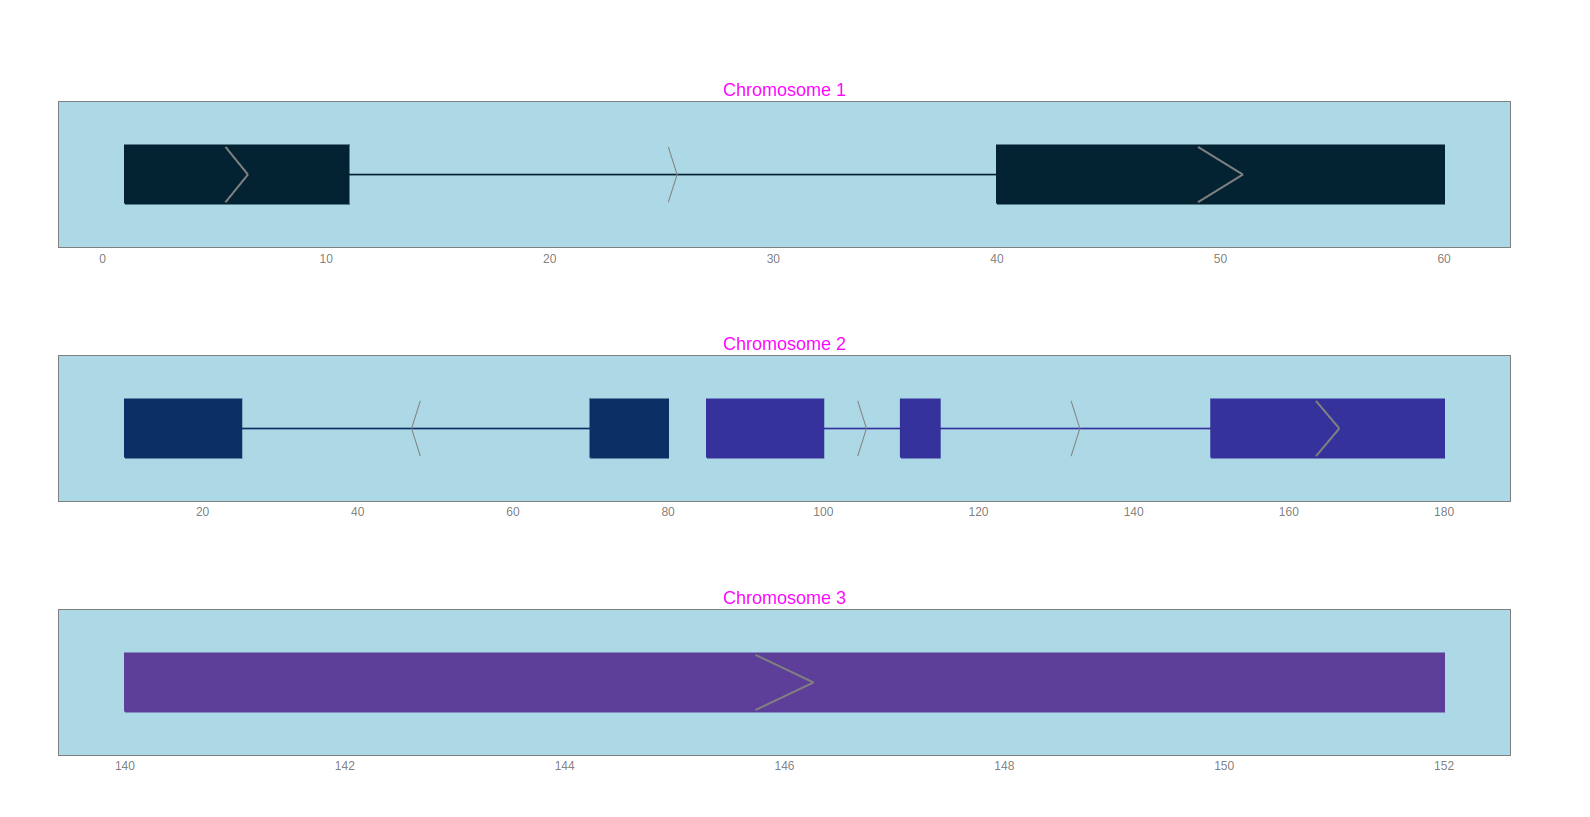
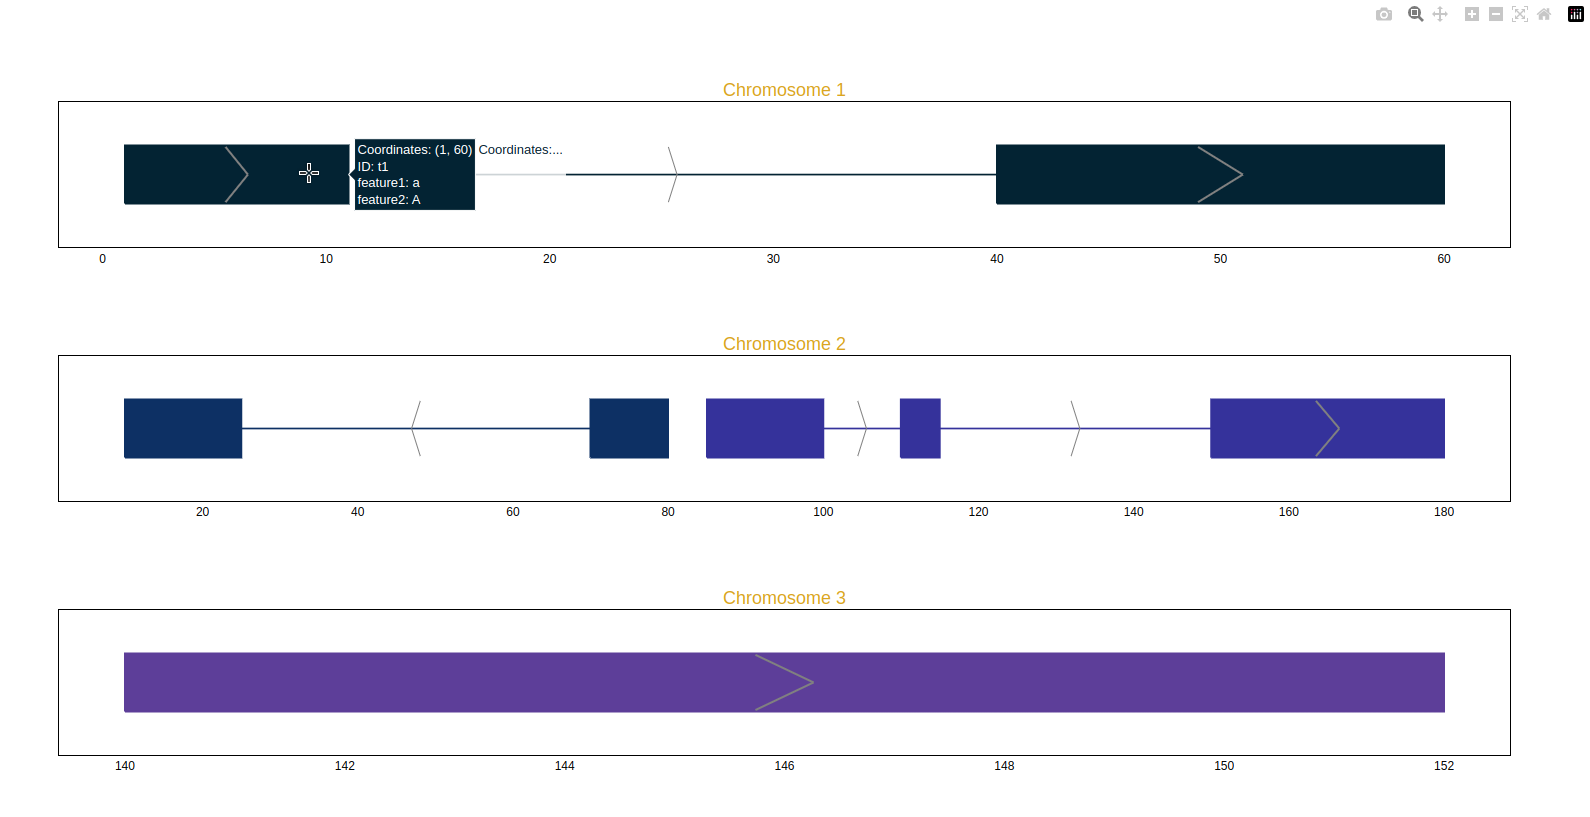
Updated README.

diff --git a/README.md b/README.md
@@ -43,20 +43,20 @@ pip install pyranges-plot
 
 
 ## Examples
-Next we will test pyranges_plot visualization options, using a PyRanges object generated 
-from a dictionary.
+Next we will test pyranges\_plot visualization options using the ``plot_generic`` function. 
+For that we will be using a PyRanges object generated from a dictionary.
 
 ```python
 import pyranges as pr
 import pyranges_plot as prplot
 
 p = pr.from_dict({"Chromosome": [1, 1, 2, 2, 2, 2, 2, 3],
-             	"Strand": ["+", "+", "-", "-", "+", "+", "+", "+"],
-             	"Start": [1, 40, 10, 70, 85, 110, 150, 140],
-             	"End": [11, 60, 25, 80, 100, 115, 180, 152],
-             	"transcript_id":["t1", "t1", "t2", "t2", "t3", "t3", "t3", "t4"],
-              "feature1": ["a", "a", "b", "b", "c", "c", "c", "d"],
-              "feature2": ["A", "A", "B", "B", "C", "C", "C", "D"]})
+                  "Strand": ["+", "+", "-", "-", "+", "+", "+", "+"],
+                  "Start": [1, 40, 10, 70, 85, 110, 150, 140],
+                  "End": [11, 60, 25, 80, 100, 115, 180, 152], 
+                  "transcript_id":["t1", "t1", "t2", "t2", "t3", "t3", "t3", "t4"], 
+                  "feature1": ["a", "a", "b", "b", "c", "c", "c", "d"], 
+                  "feature2": ["A", "A", "B", "B", "C", "C", "C", "D"]})
 print(p)
 
 ```
@@ -241,6 +241,30 @@ prplot.plot_generic(p)
 </p>
 
 
+
+Once we are able to get the plot we want, it can be exported to pdf or png format using the 
+``outfmt`` parameter. The file will be located in your current working directory and will be 
+called "prplot\_yourplot.pdf" or "prplot_yourplot.png".
+
+```python
+# Return to original features
+prplot.set_default('plot_background', 'white')
+prplot.set_default('plot_border', 'black')
+prplot.set_default('title_dict_ply.color', 'goldenrod')
+
+# Build the plot and save it in pdf or png
+prplot.plot_generic(p, outfmt='pdf')
+
+# An example of some pyranges adjustments and save
+p_subset = p[p.transcript_id.isin(['t3', 't4'])]
+prplot.plot_generic(p_subset, colormap='Set3', disposition='full', outfmt='png')
+```
+<p align="center">
+    <img src="https://github.com/emunozdc/pyranges_plot/raw/main/images/prplot_yourplot.png">
+</p>
+
+
 ## Coming soon
-* Bases will be displayed along coordinates
-* Colorblind friendly
+* Bases will be displayed along coordinates.
+* Customized name of exported file.
+* Colorblind friendly.
